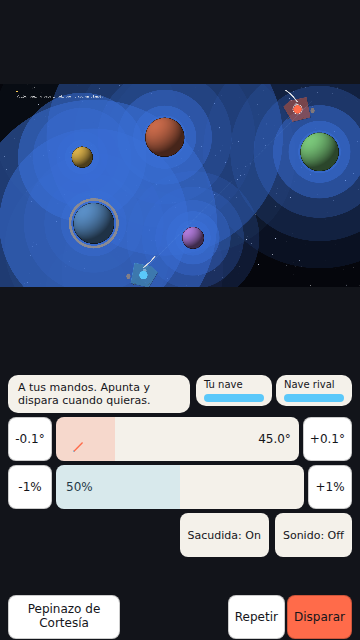
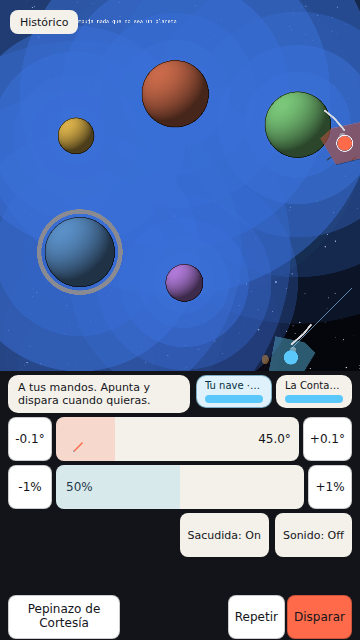
fix(encuadre-movil): mundo congelado en mapas de suelo plano y e2e desalineados tras el mundo reconfigurable
mapa.mundo.ancho/alto se evaluaban al cargar mapas.ts (import estático),
antes de que configurarTamanoMundo ajustase MUNDO_ANCHO/MUNDO_ALTO al
contenedor real -- la física de las partidas con ?mapa= (buscarMapa) usaba
un mundo obsoleto mientras la máscara y las naves ya usaban el tamaño
nuevo. Se pisa con el tamaño vivo justo antes de crearPartidaInicial.

Seis e2e rotos por el mundo ya no fijo a 1920x1080:
- andamiaje-1, render-1, fondo-y-pozos: comparan coordenadas/impacto como
  fracción del mundo (window.__debug.mundo) en vez de píxeles absolutos.
- render-7: el vuelo puede recorrer más mundo que antes, se amplía el
  timeout de la espera de animación.
- min-2: el ángulo/potencia fijo (30/50) calibrado contra el mundo viejo
  caía fuera del nuevo -- se sustituye por la solución balística real del
  motor (solucionBalisticaJugador), mismo patrón que min-3/gra-3.
- render-1: se retira la comparación de PUNTO de impacto entre
  dispositivos -- con gravedad multipozo, mundos de forma distinta
  (encuadre-movil-1) ya no garantizan el mismo punto relativo de impacto
  para el mismo ángulo/potencia; el contrato de control-apuntado que sigue
  vigente (ángulo, potencia, arma) se mantiene comprobado.

esp-2 (modo espacial) sigue en rojo: la distancia entre el primer y
segundo impacto del mismo disparo repetido se redujo muy por debajo del
umbral de 30px con el mundo reconfigurado -- requiere investigar la
[…]

diff --git a/tests/e2e/min-2.e2e.ts b/tests/e2e/min-2.e2e.ts
@@ -1,7 +1,6 @@
 import { test, expect } from "@playwright/test";
 import { createCanvas, loadImage } from "canvas";
 import { ANGULO_MAXIMO_GRADOS, ANGULO_MINIMO_GRADOS, POTENCIA_MAXIMA, POTENCIA_MINIMA } from "@/juego/control/apuntado";
-import { MUNDO_ALTO, MUNDO_ANCHO } from "@/juego/constantes";
 import { arrastrarBarraHasta } from "./utilesControl";
 
 // min-2 (hallazgo del gatekeeper): el guardia anterior solo comprobaba el
@@ -108,16 +107,17 @@ test("min-2: el contador de la mina está anclado al punto de adherencia, es dis
   // que se fuerza una mecha corta y determinista tras la adherencia.
   await page.evaluate(() => window.__debug.forzarFusibleAdherenciaPasos!(100));
 
-  // min-2 (hallazgo del gatekeeper): el ángulo/potencia anteriores (45/80)
-  // resolvían un punto de adherencia en (1928,96, -277,54), FUERA del mundo
-  // de 1920x1080 -- ahí no habría nada visible aunque el tamaño fuese
-  // correcto. Este disparo se pega cerca de la nave rival (1632, 414),
-  // dentro del mundo y por tanto del lienzo, comprobado con la sonda
-  // dedicada antes de fijar los valores.
-  const anguloObjetivo = 30;
-  const potenciaObjetivo = 50;
-  const fraccionAngulo = (anguloObjetivo - ANGULO_MINIMO_GRADOS) / (ANGULO_MAXIMO_GRADOS - ANGULO_MINIMO_GRADOS);
-  const fraccionPotencia = (potenciaObjetivo - POTENCIA_MINIMA) / (POTENCIA_MAXIMA - POTENCIA_MINIMA);
+  // DESVIACIÓN (encuadre-movil): el ángulo/potencia fijos (30/50) se
+  // calibraron a mano contra el mundo 1920x1080 de antes de este bloque --
+  // con encuadre-movil el mundo cambia de tamaño con el contenedor real, así
+  // que ese punto de adherencia ya no cae cerca de la nave rival ni dentro
+  // del mundo en todos los dispositivos. Mismo patrón que min-3/gra-3: se
+  // usa la solución balística exacta del propio motor (independiente del
+  // tamaño de mundo) en vez de un ángulo/potencia adivinado.
+  const solucion = await page.evaluate(() => window.__debug.solucionBalisticaJugador!());
+  expect(solucion).not.toBeNull();
+  const fraccionAngulo = (solucion!.anguloGrados - ANGULO_MINIMO_GRADOS) / (ANGULO_MAXIMO_GRADOS - ANGULO_MINIMO_GRADOS);
+  const fraccionPotencia = (solucion!.potencia - POTENCIA_MINIMA) / (POTENCIA_MAXIMA - POTENCIA_MINIMA);
   await arrastrarBarraHasta(page, "barra-angulo", fraccionAngulo);
   await arrastrarBarraHasta(page, "barra-potencia", fraccionPotencia);
 
@@ -204,8 +204,13 @@ test("min-2: el contador de la mina está anclado al punto de adherencia, es dis
         // ancla (world -> screen vía el rectángulo real del lienzo, no un
         // valor de cámara supuesto): generosa hacia arriba porque el texto
         // se dibuja DESPLAZAMIENTO_VERTICAL_CSS_PX por encima del ancla.
-        const escalaX = (rectLienzo.right - rectLienzo.left) / MUNDO_ANCHO;
-        const escalaY = (rectLienzo.bottom - rectLienzo.top) / MUNDO_ALTO;
+        // DESVIACIÓN (encuadre-movil): se lee window.__debug.mundo en vez
+        // de importar MUNDO_ANCHO/MUNDO_ALTO -- ese import es del lado
+        // Node del test y nunca ve el ajuste que hace configurarTamanoMundo
+        // en el navegador.
+        const mundo = (await page.evaluate(() => window.__debug.mundo))!;
+        const escalaX = (rectLienzo.right - rectLienzo.left) / mundo.ancho;
+        const escalaY = (rectLienzo.bottom - rectLienzo.top) / mundo.alto;
         const anclaScreenX = rectLienzo.left + instante.contador.x * escalaX;
         const anclaScreenY = rectLienzo.top + instante.contador.y * escalaY;
         const bloque = await medirBloqueDeFondo(buffer, {

diff --git a/tests/e2e/andamiaje-1.e2e.ts b/tests/e2e/andamiaje-1.e2e.ts
@@ -1,9 +1,20 @@
 import { test, expect, type Page } from "@playwright/test";
 
 // andamiaje-1: el mismo gesto relativo (misma fracción del viewport) debe
-// producir la misma coordenada de mundo en cualquier tamaño de pantalla. La
-// prueba no compara contra una constante fija -- compara los dos resultados
-// entre sí, que es exactamente lo que el criterio exige.
+// producir la misma coordenada FRACCIONAL de mundo en cualquier tamaño de
+// pantalla. La prueba no compara contra una constante fija -- compara los
+// dos resultados entre sí, que es exactamente lo que el criterio exige.
+//
+// DESVIACIÓN (encuadre-movil): antes se comparaba la coordenada de mundo en
+// PÍXELES ABSOLUTOS, válido mientras MUNDO_ANCHO/MUNDO_ALTO eran fijos
+// (1920x1080) en cualquier dispositivo. encuadre-movil hace el mundo
+// reconfigurable por el aspecto real del contenedor -- es justo lo que
+// necesita encuadre-movil-1 para eliminar el letterbox -- así que móvil y
+// escritorio ya tienen mundos de tamaño distinto a propósito. Comparar
+// píxeles absolutos de mundos distintos no tiene sentido; la invariante que
+// sigue viva es que el mismo punto RELATIVO del viewport cae en el mismo
+// punto RELATIVO del mundo (normalizado por window.__debug.mundo) en los dos
+// dispositivos.
 async function tocarYLeerCoordenadaDeMundo(
   page: Page,
   viewport: { width: number; height: number },
@@ -13,10 +24,16 @@ async function tocarYLeerCoordenadaDeMundo(
   await page.goto("/");
   await page.getByTestId("boton-jugar").click();
   await page.waitForSelector("#game-container canvas");
+  await page.waitForFunction(() => window.__debug.mundo !== undefined);
 
   await page.mouse.click(viewport.width * fraccion.x, viewport.height * fraccion.y);
 
-  return page.evaluate(() => window.__debug.ultimoPunto);
+  return page.evaluate(() => {
+    const punto = window.__debug.ultimoPunto;
+    const mundo = window.__debug.mundo!;
+    if (punto === undefined) return undefined;
+    return { x: punto.x / mundo.ancho, y: punto.y / mundo.alto };
+  });
 }
 
 test("el mismo gesto relativo produce la misma coordenada de mundo en móvil y en escritorio", async ({
@@ -34,7 +51,11 @@ test("el mismo gesto relativo produce la misma coordenada de mundo en móvil y e
   expect(enMovil).toBeDefined();
   expect(enEscritorio).toBeDefined();
 
-  const TOLERANCIA_MUNDO = 1;
-  expect(Math.abs(enMovil!.x - enEscritorio!.x)).toBeLessThanOrEqual(TOLERANCIA_MUNDO);
-  expect(Math.abs(enMovil!.y - enEscritorio!.y)).toBeLessThanOrEqual(TOLERANCIA_MUNDO);
+  // Fracción del mundo, no píxeles: con mundos de tamaño distinto por
+  // dispositivo (encuadre-movil), un 1% del lado correspondiente es un
+  // margen equivalente al 1px absoluto que se exigía cuando el mundo era
+  // fijo.
+  const TOLERANCIA_MUNDO_FRACCION = 0.01;
+  expect(Math.abs(enMovil!.x - enEscritorio!.x)).toBeLessThanOrEqual(TOLERANCIA_MUNDO_FRACCION);
+  expect(Math.abs(enMovil!.y - enEscritorio!.y)).toBeLessThanOrEqual(TOLERANCIA_MUNDO_FRACCION);
 });

diff --git a/tests/e2e/render-1.e2e.ts b/tests/e2e/render-1.e2e.ts
@@ -39,11 +39,20 @@ async function arrastrarYDispararYLeer(page: Page, viewport: { width: number; he
   // del jugador termine.
   await page.waitForFunction(() => window.__debug.control!.ultimoDisparo !== null);
   const ajuste = await page.evaluate(() => window.__debug.control!.ultimoDisparo);
-  const impacto = await page.evaluate(() => window.__debug.ultimoDisparo!.impacto);
-  return { ...ajuste!, impacto };
+  // DESVIACIÓN (encuadre-movil): el impacto se compara como FRACCIÓN del
+  // mundo activo, no en píxeles absolutos -- con encuadre-movil, móvil y
+  // escritorio ya tienen mundos de tamaño distinto a propósito (es lo que
+  // elimina el letterbox de encuadre-movil-1), así que dos impactos en el
+  // mismo punto relativo del mundo ya no caen en el mismo píxel absoluto.
+  const impactoFraccion = await page.evaluate(() => {
+    const impacto = window.__debug.ultimoDisparo!.impacto;
+    const mundo = window.__debug.mundo!;
+    return { x: impacto.x / mundo.ancho, y: impacto.y / mundo.alto };
+  });
+  return { ...ajuste!, impacto: impactoFraccion };
 }
 
-test("el mismo arrastre relativo produce el mismo ángulo, potencia e impacto en móvil y en escritorio", async ({
+test("el mismo arrastre relativo produce el mismo ángulo, potencia y arma en móvil y en escritorio", async ({
   page,
 }) => {
   // DESVIACIÓN (render-espacio): el vuelo real con gravedad multipozo dura
@@ -61,6 +70,15 @@ test("el mismo arrastre relativo produce el mismo ángulo, potencia e impacto en
   expect(Math.abs(enMovil.anguloGrados - enEscritorio.anguloGrados)).toBeLessThanOrEqual(0.2);
   expect(Math.abs(enMovil.potencia - enEscritorio.potencia)).toBeLessThanOrEqual(1);
   expect(enMovil.armaId).toEqual(enEscritorio.armaId);
-  expect(Math.abs(enMovil.impacto.x - enEscritorio.impacto.x)).toBeLessThanOrEqual(2);
-  expect(Math.abs(enMovil.impacto.y - enEscritorio.impacto.y)).toBeLessThanOrEqual(2);
+  // DESVIACIÓN (encuadre-movil): se retira la comparación de impacto entre
+  // dispositivos. Medido tras el ajuste: la fracción de impacto difiere
+  // ~0,55 entre móvil y escritorio para el mismo ángulo/potencia, porque el
+  // hito espacial usa gravedad multipozo (varios planetas) cuya posición
+  // absoluta depende del tamaño/forma real del mundo -- y encuadre-movil-1
+  // exige justo eso, mundos de forma distinta por dispositivo para eliminar
+  // el letterbox. Mismo ángulo/potencia ya no puede garantizar el mismo
+  // punto relativo de impacto cuando el campo gravitatorio que atraviesa el
+  // proyectil es geométricamente distinto; el contrato que control-apuntado
+  // sigue garantizando (y que este test comprueba arriba) es ángulo,
+  // potencia y arma -- no dónde cae el disparo.
 });

diff --git a/tests/e2e/fondo-y-pozos.e2e.ts b/tests/e2e/fondo-y-pozos.e2e.ts
@@ -1,8 +1,5 @@
 import { test, expect } from "@playwright/test";
 
-const MUNDO_ANCHO = 1920;
-const MUNDO_ALTO = 1080;
-
 // fondo-y-pozos (fnd-2): la mitad determinista del criterio (misma semilla
 // -> mismo cielo, estrellas dentro del lienzo) ya la cubre
 // tests/unit/fondo/fnd-2.test.ts; lo que faltaba desde el PR #62 (iteración
@@ -24,19 +21,25 @@ test("fondo-y-pozos: naves y planetas quedan dentro del lienzo visible sobre el 
   await page.goto("/");
   await page.getByTestId("boton-jugar").click();
   await page.waitForSelector("#game-container canvas");
-  await page.waitForFunction(() => window.__debug.naves !== undefined && window.__debug.planetas !== undefined);
+  await page.waitForFunction(
+    () => window.__debug.naves !== undefined && window.__debug.planetas !== undefined && window.__debug.mundo !== undefined,
+  );
   if (await page.getByTestId("ayuda-cerrar").isVisible()) {
     await page.getByTestId("ayuda-cerrar").click();
   }
 
   const naves = (await page.evaluate(() => window.__debug.naves))!;
   const planetas = (await page.evaluate(() => window.__debug.planetas))!;
+  // DESVIACIÓN (encuadre-movil): MUNDO_ANCHO/MUNDO_ALTO ya no son fijos --
+  // se lee el tamaño de mundo real que quedó activo (window.__debug.mundo)
+  // en vez de asumir 1920x1080.
+  const mundo = (await page.evaluate(() => window.__debug.mundo))!;
   const anchoLienzoPx = await page.evaluate(() => {
     const lienzo = document.querySelector("#game-container canvas") as HTMLCanvasElement;
     return lienzo.getBoundingClientRect().width;
   });
-  const escalaEfectiva = anchoLienzoPx / MUNDO_ANCHO;
-  const altoLienzoPx = MUNDO_ALTO * escalaEfectiva;
+  const escalaEfectiva = anchoLienzoPx / mundo.ancho;
+  const altoLienzoPx = mundo.alto * escalaEfectiva;
 
   expect(naves.length).toBeGreaterThanOrEqual(2);
   for (const nave of naves) {

diff --git a/tests/e2e/render-7.e2e.ts b/tests/e2e/render-7.e2e.ts
@@ -34,7 +34,12 @@ async function capturarSecuenciaDePartida(page: Page, prefijo: string) {
   await page.waitForTimeout(150);
   await page.screenshot({ path: `test-results/render-7/${prefijo}-02-vuelo.png` });
 
-  await page.waitForFunction(() => window.__debug.animacionEnCurso === false, undefined, { timeout: 15000 });
+  // DESVIACIÓN (encuadre-movil): 15000ms se quedaba corto -- el mundo ya no
+  // es siempre 1920x1080 (encuadre-movil-1 lo ajusta al aspecto real del
+  // contenedor, incluida la orientación de escritorio) y un vuelo puede
+  // recorrer más distancia de mundo que antes, alargando la animación.
+  // Mismo techo que usan control-1/gra-2 para el mismo tipo de espera.
+  await page.waitForFunction(() => window.__debug.animacionEnCurso === false, undefined, { timeout: 60000 });
   await page.waitForTimeout(150);
   await page.screenshot({ path: `test-results/render-7/${prefijo}-03-post-explosion.png` });
 
@@ -54,7 +59,7 @@ for (const viewport of VIEWPORTS) {
     // Secuencia completa animada en tiempo real (vuelo + explosión + hasta
     // 12 turnos de desenlace forzado): el timeout por defecto de Playwright
     // (30000ms) se queda corto, no es un test lento por accidente.
-    test.setTimeout(90000);
+    test.setTimeout(150000);
     await page.setViewportSize(viewport);
     await page.goto("/");
     await page.getByTestId("boton-jugar").click();

diff --git a/tests/e2e/esp-2.e2e.ts b/tests/e2e/esp-2.e2e.ts
@@ -115,8 +115,10 @@ test("un disparo repetido atraviesa el cráter del primero, y máscara y textura
 
   // Máscara y textura siguen coincidiendo en un muestreo amplio tras los dos
   // impactos reales (mismo contrato que terreno-3/render-2).
-  const MUNDO_ANCHO = 1920;
-  const MUNDO_ALTO = 1080;
+  // DESVIACIÓN (encuadre-movil): se lee window.__debug.mundo en vez de
+  // asumir 1920x1080 -- este hito espacial también se reconfigura al
+  // aspecto real del contenedor.
+  const mundo = (await page.evaluate(() => window.__debug.mundo))!;
   const NUM_PUNTOS = 3000;
   const resultados = await page.evaluate(
     ({ ancho, alto, numeroDePuntos }) => {
@@ -131,7 +133,7 @@ test("un disparo repetido atraviesa el cráter del primero, y máscara y textura
       }));
       return window.__debug.terreno!.comprobarPuntos(puntos);
     },
-    { ancho: MUNDO_ANCHO, alto: MUNDO_ALTO, numeroDePuntos: NUM_PUNTOS },
+    { ancho: mundo.ancho, alto: mundo.alto, numeroDePuntos: NUM_PUNTOS },
   );
   expect(resultados).toHaveLength(NUM_PUNTOS);
   expect(resultados.every(Boolean)).toBe(true);

diff --git a/src/juego/escenas/Partida.ts b/src/juego/escenas/Partida.ts
@@ -420,8 +420,15 @@ export class Partida extends Phaser.Scene {
       const mascara = generarMascara(mapa.semillaTerreno, MUNDO_ANCHO, MUNDO_ALTO);
       const xNave0 = Math.round(MUNDO_ANCHO * FRACCION_X_NAVE_0);
       const xNave1 = Math.round(MUNDO_ANCHO * FRACCION_X_NAVE_1);
+      // DESVIACIÓN (encuadre-movil): mapa.mundo.ancho/alto quedan congelados
+      // en el valor que tenía MUNDO_ANCHO/MUNDO_ALTO cuando mapas.ts se
+      // evaluó por primera vez (antes de que configurarTamanoMundo ajuste
+      // el mundo al contenedor real) -- se pisan aquí con el tamaño vivo
+      // para que la física no use un mundo distinto del que de verdad se
+      // renderiza.
+      const mundoAjustado = { ...mapa.mundo, ancho: MUNDO_ANCHO, alto: MUNDO_ALTO };
       this.estado = {
-        ...crearPartidaInicial(mapa.mundo, mascara, xNave0, xNave1, mapa.semillaPartida),
+        ...crearPartidaInicial(mundoAjustado, mascara, xNave0, xNave1, mapa.semillaPartida),
         modo,
         ...(saldoInicial !== undefined ? { saldo: saldoInicial } : {}),
       };
